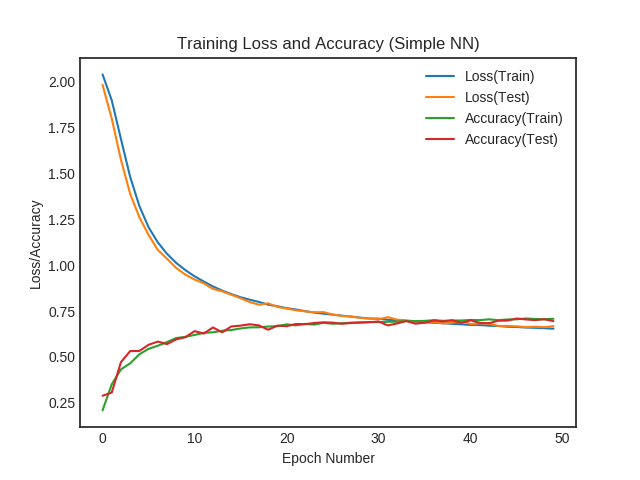
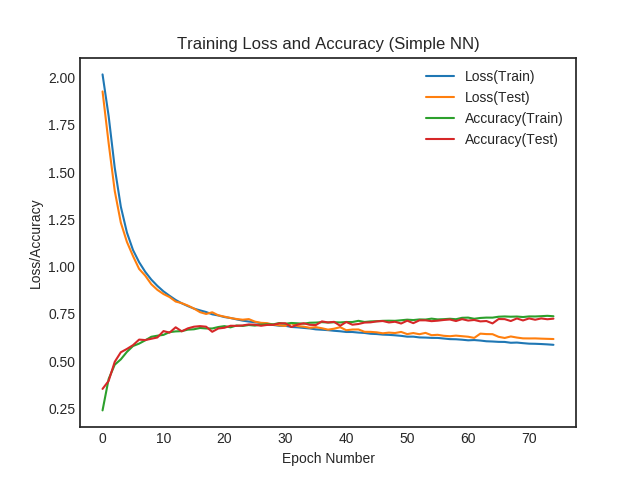
Fixed a bug and Retrained simple nn with 64*64 images and 75 epochs

diff --git a/simple-nn/train.py b/simple-nn/train.py
@@ -21,6 +21,10 @@ class Print:
     def error(message):
         print(f"[WARN] {message}")
 
+    @staticmethod
+    def processing(message):
+        print(f"[PROCESSING] {message}", end='\r')
+
 
 ###############################################################################
 #               Loading Dataset
@@ -85,8 +89,9 @@ def load_image_dataset(dataset_path, image_width=32, image_height=32,
         labels.append(label)
 
         if image_path_ind % notification_milestone == 0:
-            Print.information(f"Loaded {image_path_ind}/{n_images} images")
+            Print.processing(f"Loaded {image_path_ind}/{n_images} images")
 
+    print()
     Print.information("Dataset loaded into memory")
 
     images = np.array(images, dtype='float') / 255
@@ -110,7 +115,7 @@ def prepare_dataset(samples, labels, test_size=0.25):
     label_binarizer = LabelBinarizer()
     label_binarizer.fit(y)
 
-    n_classes = label_binarizer.classes_
+    n_classes = len(label_binarizer.classes_)
     if n_classes != len(set(test_y)):
         Print.error("Test set does not contain one of each class.")
 
